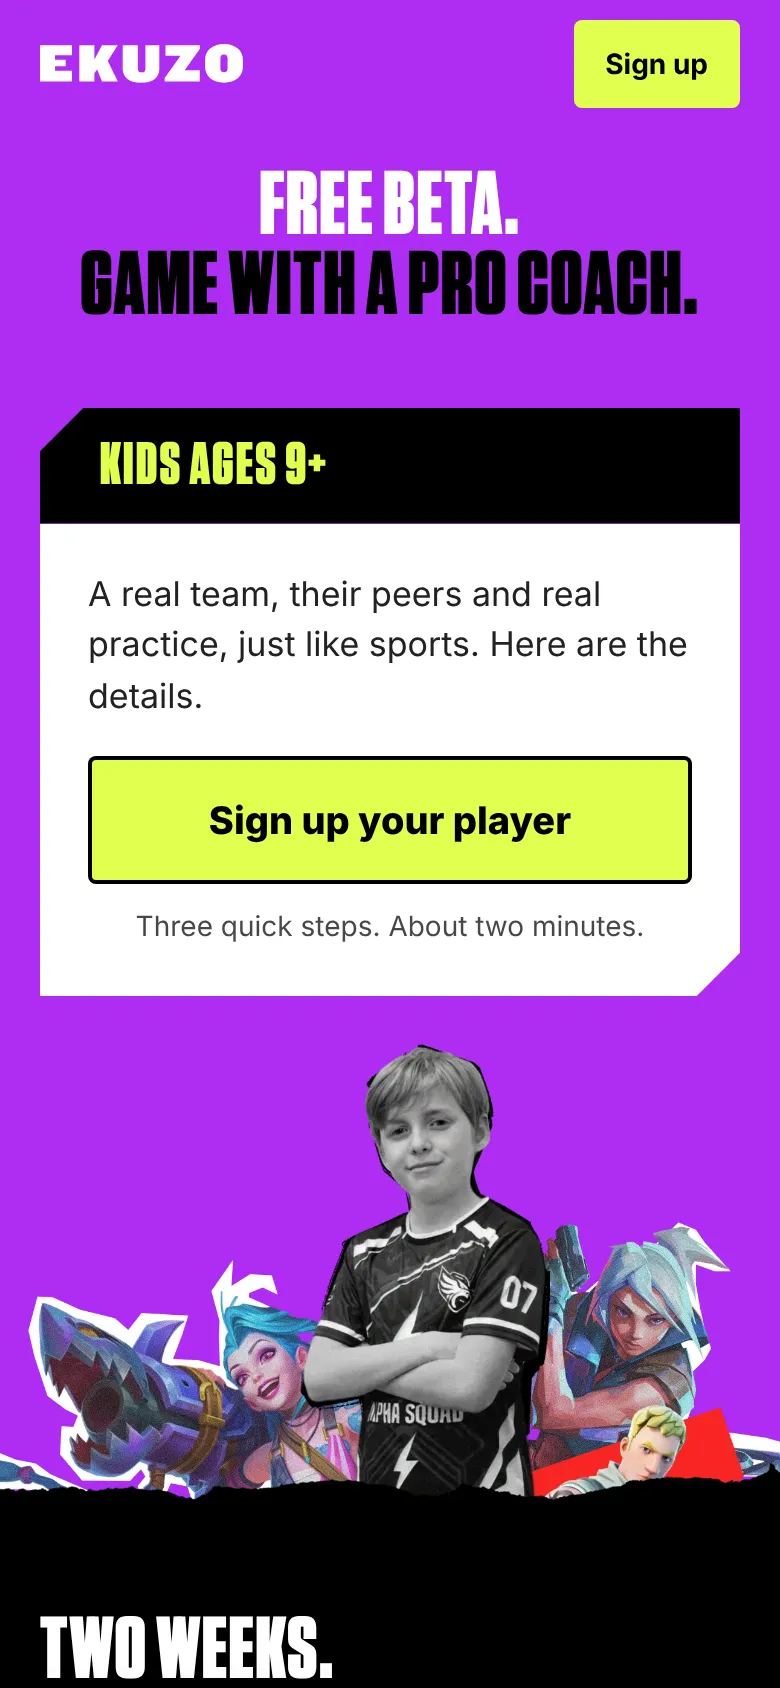
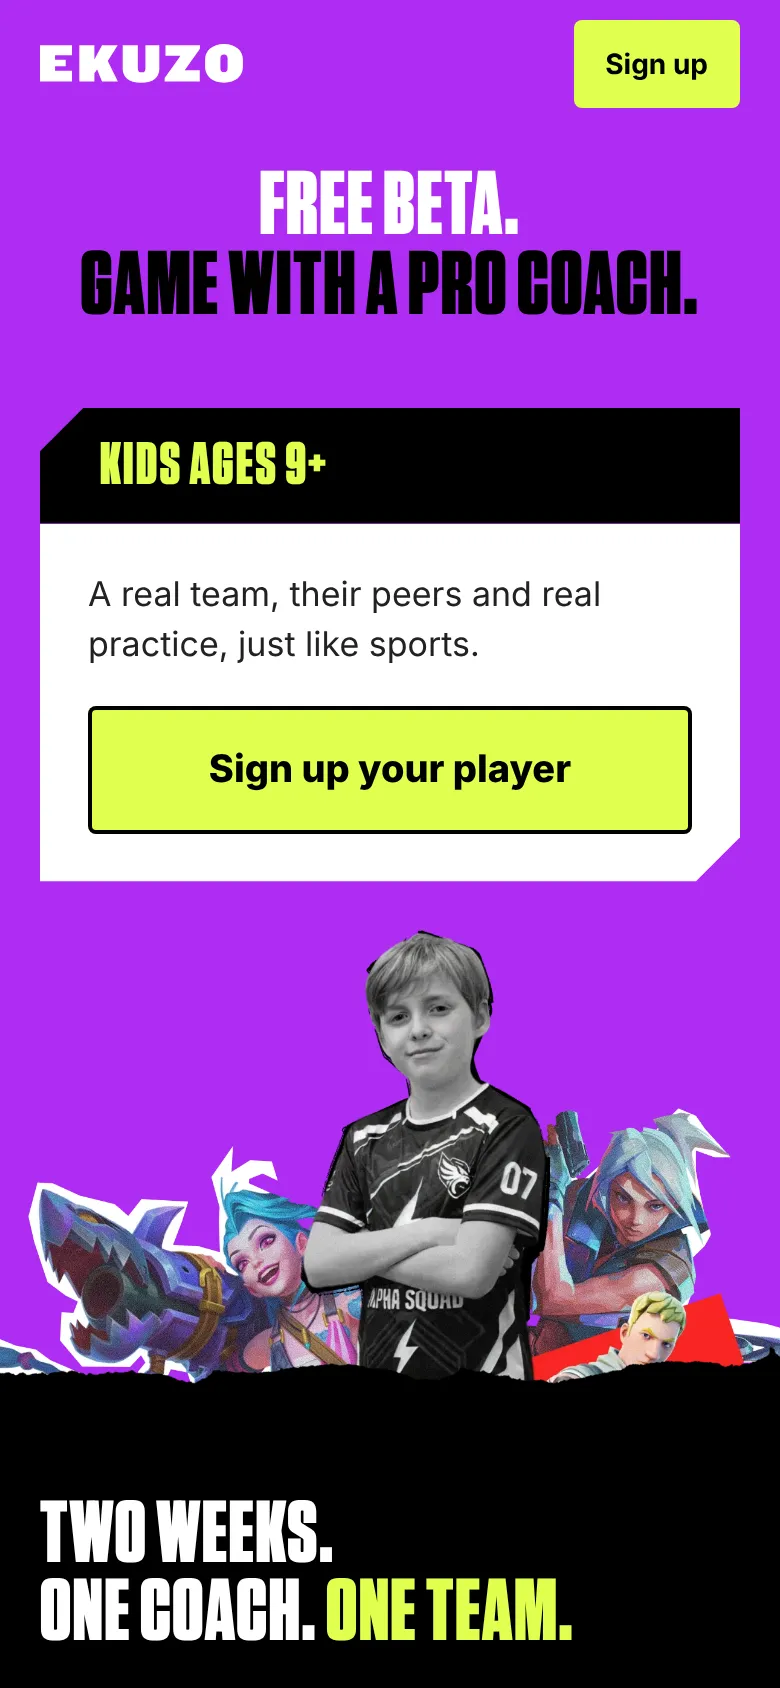
Season 01 BETA: details page renamed to /season1/beta/launch, line under the button removed
Claude-Session: https://claude.ai/code/session_01543UG8e9JwTD5Qg5aKwmc9

diff --git a/public/roadshow/beta-lab.html b/public/roadshow/beta-lab.html
@@ -128,8 +128,8 @@ footer{color:var(--muted);font-size:14px;border-top:1px solid var(--line);paddin
     <p class="sub">Two ways in, an ad or Karlin's email. Both end with an email address, which gets the wizard invite.</p>
     <ol class="steps six">
       <li><b>Beta ad</b><span>Four new ads on Meta. Each lands on the BETA page, where a parent joins with one email field.</span><a href="/season1/beta">Open the page</a></li>
-      <li><b>Karlin's email</b><span>A personal note to the 400+ Season 01 sign-ups. To join, they just reply. Parents who reply yes get the details page, whose button opens the wizard.</span><a href="/season1/beta/details">Open the details page</a></li>
-      <li><b>Wizard invite</b><span>A short email with one link. Reply-yes parents get the details page. Page sign-ups can go straight to the wizard.</span><a href="#emails">See the emails</a></li>
+      <li><b>Karlin's email</b><span>A personal note to the 400+ Season 01 sign-ups. To join, they just reply. Parents who reply yes get the beta launch page, whose button opens the wizard.</span><a href="/season1/beta/launch">Open the beta launch page</a></li>
+      <li><b>Wizard invite</b><span>A short email with one link. Reply-yes parents get the beta launch page. Page sign-ups can go straight to the wizard.</span><a href="#emails">See the emails</a></li>
       <li><b>Sign-up wizard</b><span>Starts with the parent's email, then three steps: what the beta is, a player card, and availability. It ends with a reaction test for the kid.</span><a href="/season1/beta/start">Open the wizard</a></li>
       <li><b>Review and confirm</b><span>We check that each player's availability and our volume line up, then follow up with practice. How we confirm a player is still open.</span></li>
       <li><b>The beta</b><span>Two weeks, four sessions. Then the Season 01 offer.</span></li>
@@ -151,13 +151,13 @@ footer{color:var(--muted);font-size:14px;border-top:1px solid var(--line);paddin
   </section>
 
   <section>
-    <h2>The details page</h2>
+    <h2>The beta launch page</h2>
     <p class="sub">For parents who already said yes and are asking for more. Same look as the BETA page, with no email form. Every button opens the wizard.</p>
     <div class="screens">
-      <figure><img src="beta/screens/details-phone.webp" alt="Details page on a phone: Free beta. Game with a pro coach., and a Sign up your player button." width="390" height="844" loading="lazy"><figcaption><b>Top</b>One button: "Sign up your player". It goes to the wizard.</figcaption></figure>
-      <figure><img src="beta/screens/details-phone-stats.webp" alt="Details page on a phone: Two weeks. One coach. One team., with four detail cards." width="390" height="844" loading="lazy"><figcaption><b>The details</b>2 weeks and 4 sessions, online, ages 9+, free. Then how it works and what the player needs.</figcaption></figure>
+      <figure><img src="beta/screens/details-phone.webp" alt="Beta launch page on a phone: Free beta. Game with a pro coach., and a Sign up your player button." width="390" height="844" loading="lazy"><figcaption><b>Top</b>One button: "Sign up your player". It goes to the wizard.</figcaption></figure>
+      <figure><img src="beta/screens/details-phone-stats.webp" alt="Beta launch page on a phone: Two weeks. One coach. One team., with four detail cards." width="390" height="844" loading="lazy"><figcaption><b>The details</b>2 weeks and 4 sessions, online, ages 9+, free. Then how it works and what the player needs.</figcaption></figure>
     </div>
-    <a class="more" href="/season1/beta/details">Open the details page at /season1/beta/details</a>
+    <a class="more" href="/season1/beta/launch">Open the beta launch page at /season1/beta/launch</a>
   </section>
 
   <section>
@@ -210,7 +210,7 @@ footer{color:var(--muted);font-size:14px;border-top:1px solid var(--line);paddin
         <div class="body" id="emailbody2">
           <p>Hi,</p>
           <p>Thanks for your interest in the beta. Three quick steps tell us about your player and the times that work:</p>
-          <p>ekuzo.gg/season1/beta/details</p>
+          <p>ekuzo.gg/season1/beta/launch</p>
           <p>Questions? Just reply.</p>
           <p>Karlin<br>Founder, EKUZO</p>
         </div>
@@ -219,7 +219,7 @@ footer{color:var(--muted);font-size:14px;border-top:1px solid var(--line);paddin
         <button class="btn" type="button" id="copyBody2">Copy email</button>
         <button class="btn ghost" type="button" id="copySubject2">Copy subject line</button>
         <div class="note">
-          <p><b>Two senders</b>Parents who replied to Karlin get this from him by hand, with the details page link. Page sign-ups can get it from Klaviyo with the wizard link instead: ekuzo.gg/season1/beta/start</p>
+          <p><b>Two senders</b>Parents who replied to Karlin get this from him by hand, with the beta launch page link. Page sign-ups can get it from Klaviyo with the wizard link instead: ekuzo.gg/season1/beta/start</p>
         </div>
       </aside>
     </div>

diff --git a/app/season1/beta/launch/launch.html b/app/season1/beta/launch/launch.html
@@ -5,7 +5,7 @@
 <meta name="viewport" content="width=device-width, initial-scale=1, viewport-fit=cover">
 <meta name="robots" content="noindex">
 <meta name="s1-build" content="{{BUILD}}">
-<title>The EKUZO beta: the details</title>
+<title>EKUZO beta launch</title>
 <link rel="icon" href="/icon.png">
 {{TAGS}}
 <link rel="preload" as="font" type="font/otf" href="/fonts/TungstenNarrow-Black.otf" crossorigin>
@@ -15,7 +15,7 @@
 <link rel="preconnect" href="https://fonts.gstatic.com" crossorigin>
 <link rel="stylesheet" href="https://fonts.googleapis.com/css2?family=Inter:wght@400;500;600;700;800&family=Oswald:wght@700&display=swap">
 <style>
-/* BETA details page (/season1/beta/details). For parents who already said yes to Karlin's
+/* BETA launch page (/season1/beta/launch). For parents who already said yes to Karlin's
    email and want the details. Same look as /season1/beta, but there is no email form:
    every button goes straight to the sign-up wizard at /season1/beta/start. */
 @font-face{font-family:"Tungsten Narrow";src:url("/fonts/TungstenNarrow-Black.otf") format("opentype");font-weight:900;font-display:swap}
@@ -200,7 +200,6 @@ a{color:inherit}
 .needs li:before{content:"";position:absolute;left:0;top:.45em;width:10px;height:10px;background:var(--blue)}
 .needs b{font-weight:700}
 .needs span{display:block;font-size:16px;color:rgba(0,0,0,.68)}
-.card .fine{margin-top:12px}
 /* email-only card + confirmation */
 [hidden]{display:none!important}
 .card h2{font:900 40px/.95 var(--display);text-transform:uppercase;letter-spacing:.02em}
@@ -222,9 +221,8 @@ a{color:inherit}
 <div class="join" id="join">
 <p class="tag"><b>Kids ages 9+</b></p>
 <div class="card">
-<p class="lede">A real team, their peers and real practice, just like&nbsp;sports. Here are the details.</p>
+<p class="lede">A real team, their peers and real practice, just like&nbsp;sports.</p>
 <a class="btn" href="/season1/beta/start">Sign up your player</a>
-<p class="fine">Three quick steps. About two minutes.</p>
 </div>
 </div>
 </div>

diff --git a/app/season1/beta/launch/route.ts b/app/season1/beta/launch/route.ts
@@ -3,7 +3,7 @@ import fs from "fs";
 import path from "path";
 import { fillTags, renderStaticTags } from "@/lib/season1/tags";
 
-// BETA details page, served at /season1/beta/details. For parents who replied yes to
+// BETA launch page, served at /season1/beta/launch. For parents who replied yes to
 // Karlin's email and want the details before they sign up. Same static-HTML pattern as
 // /season1/beta. It has no form: every button links to the wizard at /season1/beta/start.
 export const dynamic = "force-static";
@@ -22,7 +22,7 @@ function buildRef(): string {
 
 export function GET() {
   const html = fillTags(
-    fs.readFileSync(path.join(process.cwd(), "app", "season1", "beta", "details", "details.html"), "utf8"),
+    fs.readFileSync(path.join(process.cwd(), "app", "season1", "beta", "launch", "launch.html"), "utf8"),
     "",
     renderStaticTags("landing"),
   ).split("{{BUILD}}").join(buildRef());

diff --git a/WORKLOG.md b/WORKLOG.md
@@ -4,14 +4,14 @@
 
 **Format:** Most recent entry at the top. Include your name, date, and what changed.
 
-## Aaron's Claude, 2026-11-12: BETA details page at /season1/beta/details (dev)
+## Aaron's Claude, 2026-11-12: BETA launch page at /season1/beta/launch (dev)
 
 Aaron: the BETA page works for ad traffic, but parents who replied yes to Karlin's email are already interested and want details. They need a page whose button goes straight to the wizard.
 
-- **New:** `app/season1/beta/details/{route.ts,details.html}`, served at `/season1/beta/details`. Built from the BETA page: same hero, no email form, every button links to `/season1/beta/start`. New black band "Two weeks. One coach. One team." with the Join page's four detail cards rewritten for the beta (2 weeks / 4 sessions, online, ages 9+, free). "How the beta works" is rewritten for this audience and lists what the player needs. Parent quotes, coaches, No toxic lobbies and short answers carry over.
+- **New:** `app/season1/beta/launch/{route.ts,launch.html}`, served at `/season1/beta/launch` (first pushed as `/season1/beta/details`, renamed the same hour; nothing linked to the old address). Built from the BETA page: same hero, no email form, every button links to `/season1/beta/start`. New black band "Two weeks. One coach. One team." with the Join page's four detail cards rewritten for the beta (2 weeks / 4 sessions, online, ages 9+, free). "How the beta works" is rewritten for this audience and lists what the player needs. Parent quotes, coaches, No toxic lobbies and short answers carry over.
 - It has no form and makes no API call.
 - `app/season1/beta/beta.html`: step 2 no longer mentions "the games they play" (the wizard stopped asking).
-- Beta lab: new "The details page" section, pathway and wizard-invite link updated. Handoff doc updated.
+- Beta lab: new "The beta launch page" section, pathway and wizard-invite link updated. Handoff doc updated.
 - **Checked** at 390 and 1440: no sideways scroll, no errors, all four buttons point to the wizard. **Not run:** the repo test suite.
 
 ## Aaron's Claude, 2026-11-12: BETA wizard moved to /season1/beta/start, handoff for Jamie (dev)

diff --git a/docs/beta-wizard-handoff.md b/docs/beta-wizard-handoff.md
@@ -7,7 +7,7 @@ Written 2026-11-12 by Aaron's Claude. Goal: get the BETA flow live so a few peop
 | Piece | Address | File |
 |---|---|---|
 | BETA page, one email field | `/season1/beta` | `app/season1/beta/beta.html` |
-| Details page, no form, buttons open the wizard | `/season1/beta/details` | `app/season1/beta/details/details.html` |
+| Beta launch page, no form, buttons open the wizard | `/season1/beta/launch` | `app/season1/beta/launch/launch.html` |
 | Sign-up wizard | `/season1/beta/start` | `app/season1/beta/start/start.html` |
 | Flow, screens, email copy | `/roadshow/beta-lab.html` | `public/roadshow/beta-lab.html` |
 
@@ -17,7 +17,7 @@ All three pages are static HTML served by a route handler, the same pattern as `
 
 1. **Beta ad** to `/season1/beta`. The parent joins with an email.
 2. **Karlin's email** to the 400+ Season 01 sign-ups. To join, they reply.
-3. Parents who reply yes get the **details page**, `/season1/beta/details`, from Karlin by hand. Page sign-ups get the **wizard invite** email with a link to `/season1/beta/start`.
+3. Parents who reply yes get the **beta launch page**, `/season1/beta/launch`, from Karlin by hand. Page sign-ups get the **wizard invite** email with a link to `/season1/beta/start`.
 4. **Wizard:** email, then what the beta is and three expectations, the player card, availability.
 5. **Wizard confirmation** email. It promises a review and a reply, not a spot.
 6. We review availability and volume, then follow up with practice. How we confirm a player is still being decided.
